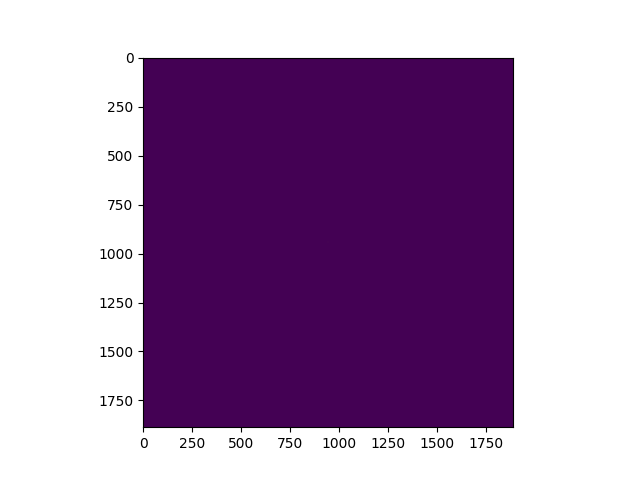
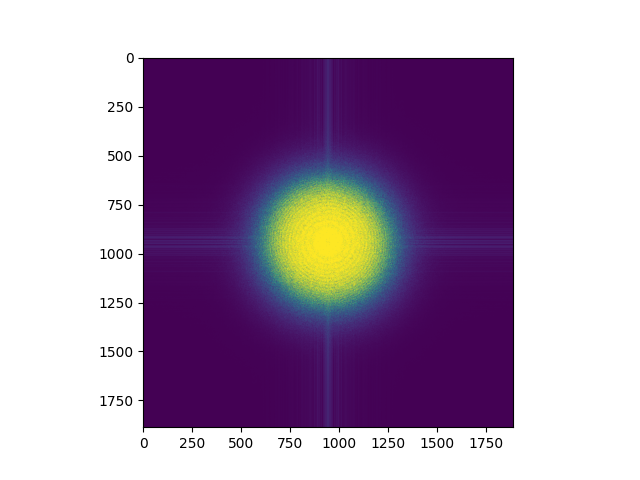
Remake plots

Changed region(s): [[0.2188, 0.125, 0.8125, 0.9062]]

diff --git a/replicate_umap/make_plots.py b/replicate_umap/make_plots.py
@@ -2,6 +2,7 @@ from pathlib import Path
 import re
 import pickle
 import argparse
+import shutil
 
 import numpy as np
 import matplotlib.pyplot as plt
@@ -26,6 +27,8 @@ for path in tqdm(list((Path.cwd() / f'results').glob('*_*.pkl'))):
     )
     plots_folder = Path.cwd() / f'plots' / str(window_length
                                               ) / str(window_stepsize_ratio)
+    if plots_folder.exists():
+        shutil.rmtree(plots_folder)
     plots_folder.mkdir(parents=True, exist_ok=True)
     with open(path, 'rb') as fh:
         r = pickle.load(fh)
@@ -38,15 +41,13 @@ for path in tqdm(list((Path.cwd() / f'results').glob('*_*.pkl'))):
     plt.imshow(r.img_stk[0, :, :])
     plt.savefig(plots_folder / 'img_stk0')
     show()
-    plt.imshow(r.img_stk[0, :, :])
-    plt.savefig(plots_folder / 'img_stk1')
-    show()
     plt.imshow(np.sum(r.img_stk, axis=0))
     plt.savefig(plots_folder / 'sum_img_stk0')
     show()
-    plt.imshow(
-        np.absolute(np.fft.fftshift(np.fft.fft2(r.img_stk[0, :, :])))
-    )
+    fftimg = np.absolute(np.fft.fftshift(np.fft.fft2(r.img_stk[0, :, :])))
+    vmin = 0.0
+    vmax = np.nanpercentile(fftimg.flatten(), 95)
+    plt.imshow(fftimg, vmin=vmin, vmax=vmax)
     plt.savefig(plots_folder / 'fft_img_stk0')
     show()
 
